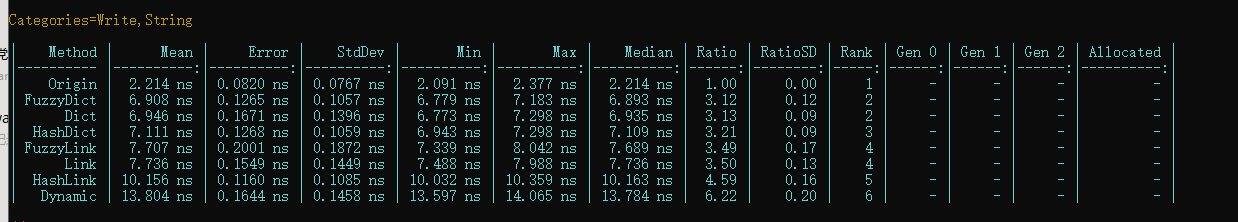
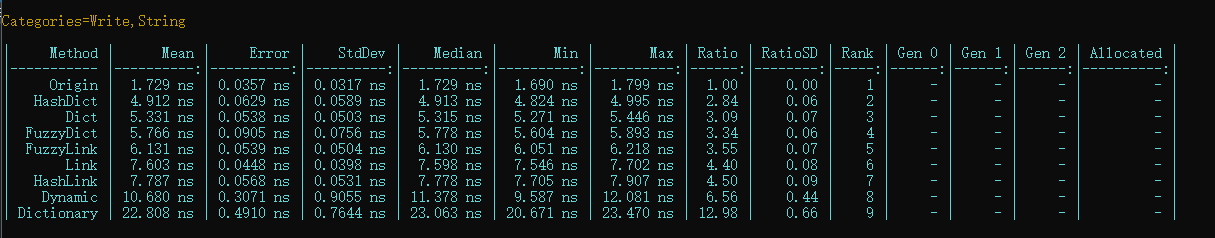
增加字典对比

diff --git a/test/BenchmarkTest/TestCaller.cs b/test/BenchmarkTest/TestCaller.cs
@@ -3,6 +3,7 @@ using BenchmarkDotNet.Configs;
 using BenchmarkDotNet.Mathematics;
 using BenchmarkDotNet.Order;
 using BenchmarkTest.Model;
+using Natasha;
 using NCaller;
 using System;
 using System.Collections.Generic;
@@ -28,10 +29,12 @@ namespace BenchmarkTest
 
         public dynamic Dynamic;
         public CallModel Model;
-
+        public CallModel DictModel;
+        public Dictionary<string, Action<CallModel, object>> Dict;
         public TestCaller()
         {
             string temp = "Hello";
+            Dict = new Dictionary<string, Action<CallModel, object>>();
             Type type = typeof(CallModel);
             CallerManagement.AddType(type);
             DictHandler = DictOperator.CreateFromType(type);
@@ -42,12 +45,14 @@ namespace BenchmarkTest
             HashLinkHandler = HashLinkOperator.CreateFromType(type);
             Model = new CallModel();
             Dynamic = new CallModel();
+            DictModel = new CallModel();
             DictHandler.New();
             FuzzyDictHandler.New();
             HashDictHandler.New();
             LinkHandler.New();
             FuzzyLinkHandler.New();
             HashLinkHandler.New();
+            Dict["Name"] = NAction<CallModel, object>.Delegate("arg1.Name=(string)arg2;");
         }
 
 
@@ -61,21 +66,26 @@ namespace BenchmarkTest
         {
             Dynamic.Name = "Hello";
         }
-        [BenchmarkCategory("Write", "String"), Benchmark(Description = "Dict With SetMethod")]
-        public void DictSetMethodStringTest()
+        [BenchmarkCategory("Write", "String"), Benchmark(Description = "Dictionary")]
+        public void DictionarySetStringTest()
         {
-            DictHandler.Set("Name", "Hello");
+            Dict["Name"](DictModel, "Hello");
         }
-        [BenchmarkCategory("Write", "String"), Benchmark(Description = "HashDict With SetMethod")]
-        public void HashDictSetMethodStringTest()
-        {
-            HashDictHandler.Set("Name", "Hello");
-        }
-        [BenchmarkCategory("Write", "String"), Benchmark(Description = "FuzzyDict With SetMethod")]
-        public void FuzzyDictSetMethodStringTest()
-        {
-            FuzzyDictHandler.Set("Name", "Hello");
-        }
+        //[BenchmarkCategory("Write", "String"), Benchmark(Description = "Dict With SetMethod")]
+        //public void DictSetMethodStringTest()
+        //{
+        //    DictHandler.Set("Name", "Hello");
+        //}
+        //[BenchmarkCategory("Write", "String"), Benchmark(Description = "HashDict With SetMethod")]
+        //public void HashDictSetMethodStringTest()
+        //{
+        //    HashDictHandler.Set("Name", "Hello");
+        //}
+        //[BenchmarkCategory("Write", "String"), Benchmark(Description = "FuzzyDict With SetMethod")]
+        //public void FuzzyDictSetMethodStringTest()
+        //{
+        //    FuzzyDictHandler.Set("Name", "Hello");
+        //}
         [BenchmarkCategory("Write", "String"), Benchmark(Description = "Dict")]
         public void DictSetStringTest()
         {
